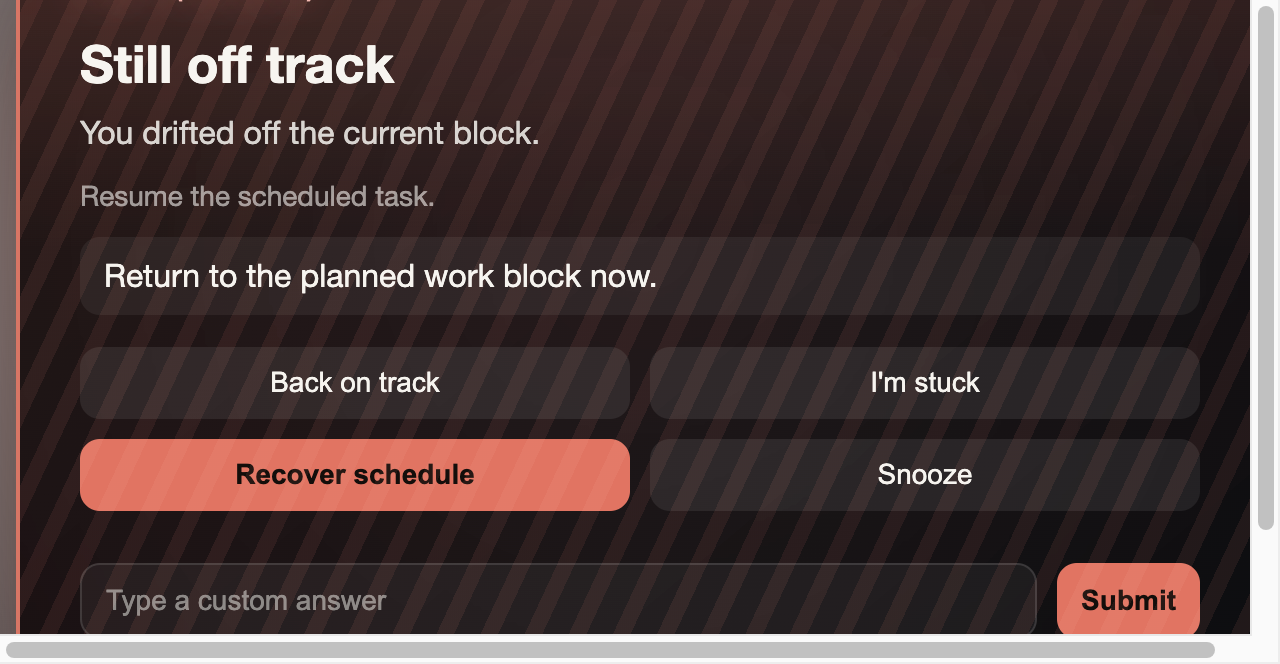
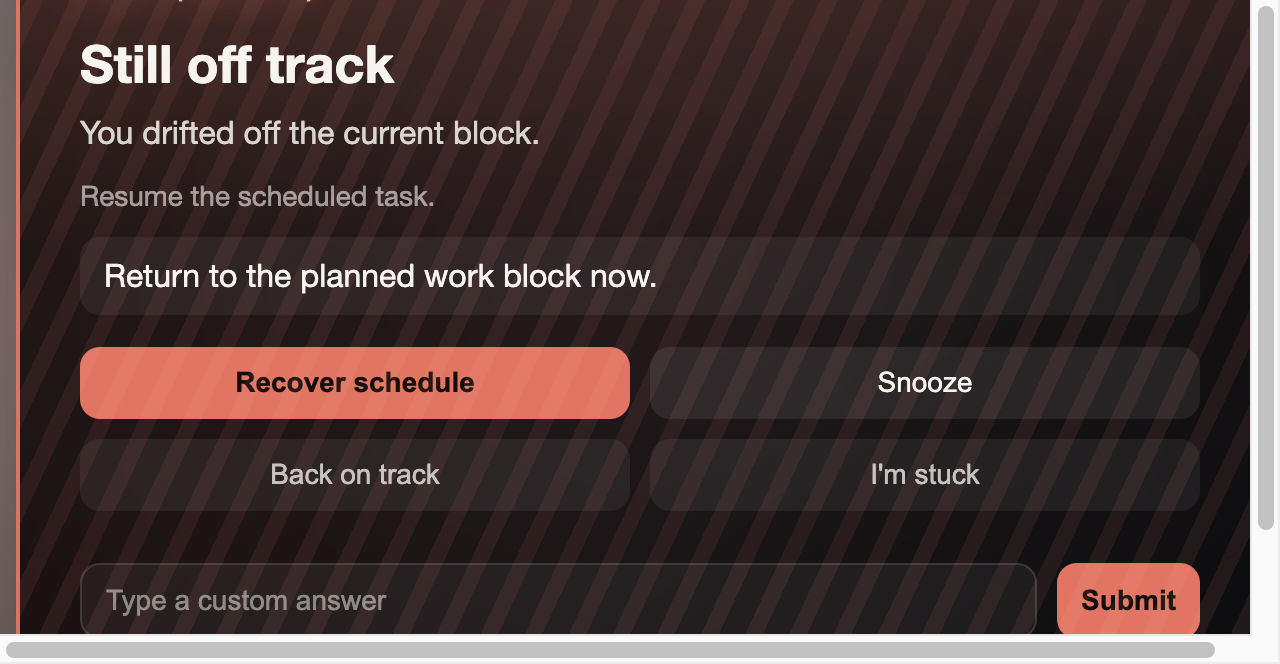
overlay: reorder buttons for DRIFT_PERSIST pattern-break

diff --git a/overlay/overlay.css b/overlay/overlay.css
@@ -181,8 +181,29 @@ html[data-screenshot="1"] *::after {
 .buttons {
   display: grid;
   grid-template-columns: repeat(2, 1fr);
+  grid-template-areas:
+    "back stuck"
+    "recover snooze";
   gap: 10px;
   margin-bottom: 14px;
+}
+
+/* DRIFT_PERSIST: move the concrete recovery actions to the top row.
+   This is a subtle, high-signal pattern-break without removing options. */
+#overlay.pattern-break .buttons {
+  grid-template-areas:
+    "recover snooze"
+    "back stuck";
+}
+
+#backBtn { grid-area: back; }
+#stuckBtn { grid-area: stuck; }
+#recoverBtn { grid-area: recover; }
+#snoozeBtn { grid-area: snooze; }
+
+#overlay.pattern-break #backBtn,
+#overlay.pattern-break #stuckBtn {
+  opacity: 0.78;
 }
 
 .choices {
